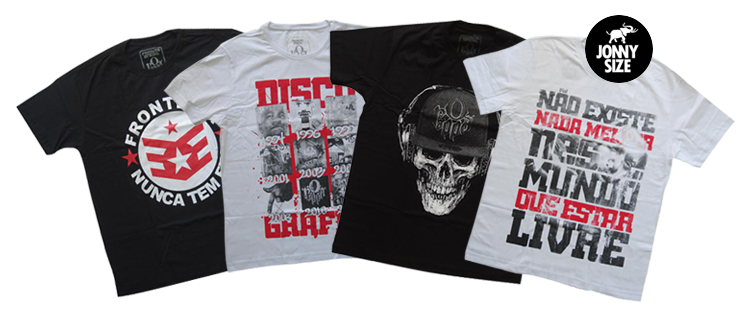
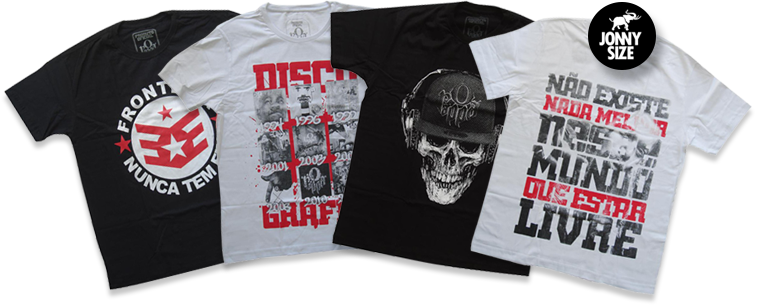
Ajustes nas imagens e backgrounds

diff --git a/style.css b/style.css
@@ -39,7 +39,7 @@ h1, h2, h3, h4 {
 	color: #000;
 }
 section {
-	padding-bottom: 25px;
+	padding-bottom: 55px;
 	position: relative;
 	z-index: 9;
 }
@@ -51,9 +51,11 @@ a.button {
 	text-transform: uppercase;
 	text-align: center;
 	line-height: 34px;
+	font-size: 26px;
 	
 	display: block;
 	width: 100%;
+	
 }
 br.nobr {
 	height: 0;
@@ -117,6 +119,9 @@ header {
 }
 
 /* CARROSSEL */
+.content-carousel {
+	padding-bottom: 0;
+}
 .carousel-xs-img {
 	width: 100%;
 }
@@ -164,9 +169,11 @@ header {
 	line-height: 52px;
 }
 .content-agenda .data-show-header,
-.content-agenda .data-show {
+.content-agenda .data-show,
+.content-agenda .data-show .button{
 	line-height: 34px;
 	text-transform: uppercase;
+	font-size: 14px;
 	
 }
 .content-agenda .data-show {
@@ -187,7 +194,7 @@ header {
 	background-color: #FFF;
 	border: 1px solid #ebebeb;
 	padding: 8px 16px;
-	font-size: 13px;
+	font-size: 16px;
 }
 .content-agenda .more-itens {
 	text-align: right;
@@ -202,6 +209,12 @@ header {
 @media (min-width: 768px) {
 	.content-agenda h4 .tag {
 		display: inline;
+	}
+	
+	.content-agenda .data-show-header,
+	.content-agenda .data-show,
+	.content-agenda .data-show .button{
+		font-size: 18px;
 	}
 }
 
@@ -256,6 +269,7 @@ header {
 /* APP MOBILE */
 .content-aplicativomobile .excerpt {
 	margin-top: 15px;
+	font-size: 18px;
 }
 .content-aplicativomobile .download-link {
 	display: block;
@@ -330,7 +344,7 @@ header {
 .content-links .item-link-title {
 	text-align: center;
 	text-transform: uppercase;
-	font-size: 25px;
+	font-size: 18px;
 	
 	margin-bottom: 40px;
 	

diff --git a/css/background.css b/css/background.css
@@ -5,9 +5,10 @@
 }
 @media (min-width: 768px) {
 	.content-redessociais {
-		background: url('../images/redes-sociais/background-bottom.png'), url('../images/redes-sociais/textura.png') ;
+		background: url('../images/redes-sociais/background-bottom.jpg'), url('../images/redes-sociais/textura.jpg') ;
 		background-repeat: repeat-x, repeat;
-		background-position:bottom left, top left;
+		background-position: bottom left, top left;
+		background-size: contain, auto;
 	}
 	.content-redessociais .container {
 		background-image: url('../images/redes-sociais/foto-bg-semitransparente.png');
@@ -34,7 +35,7 @@
 }
 
 .content-loja {
-	background-image: url('../images/loja/background.png');
+	background-image: url('../images/loja/background.jpg');
 }
 .content-loja .container:first-child {
 	background-image: url('../images/loja/camisas-xs.png');

diff --git a/css/navbar-default.css b/css/navbar-default.css
@@ -17,6 +17,7 @@
 	color: #FFF;
 	text-transform: uppercase;
 	text-align: center;
+	font-size: 16px;
 }
 
 .navbar-default .navbar-nav > .active > a, 
@@ -30,5 +31,14 @@
 @media (min-width: 768px) {
 	.navbar-default .navbar-nav {
 		float: right;
+	}
+	.navbar-default .navbar-nav > li > a {
+		padding: 15px 11px;
+	}
+}
+
+@media (min-width: 992px) {
+	.navbar-default .navbar-nav > li > a {
+		padding: 15px;
 	}
 }

diff --git a/content-carousel.php b/content-carousel.php
@@ -1,4 +1,5 @@
 <?php
+$imagemTelasPequenas = get_field('imagem_telas_pequenas');
 $args = array('post_type' => 'carrossel-item');
 $the_query = new WP_Query($args);
 $totalCarrosselItem = $the_query->post_count;
@@ -48,6 +49,6 @@ endwhile;
 		</a>
 	</div>
 	<div class="visible-xs-block">
-		<img src="<?php the_field('imagem_telas_pequenas') ?>" class="carousel-xs-img" />
+		<img src="<?php echo $imagemTelasPequenas ?>" class="carousel-xs-img" />
 	</div>
 </section>

diff --git a/content-nacao.php b/content-nacao.php
@@ -18,7 +18,7 @@
 			<div class="col-xs-10 col-xs-offset-1 excerpt">
 				<?php the_excerpt() ?>
 			</div>
-			<div class="col-xs-6 col-xs-offset-3 col-sm-4 col-sm-offset-4">
+			<div class="col-xs-6 col-xs-offset-3 col-sm-4 col-sm-offset-4 col-lg-2 col-lg-offset-5">
 				<a href="<?php the_field('url_nacao') ?>" target="_blank" class="button">Acessar</a>
 			</div>
 		</div>

diff --git a/content-loja.php b/content-loja.php
@@ -14,7 +14,7 @@
 			<div class="col-xs-12 excerpt">
 				<?php the_content() ?>
 			</div>
-			<div class="col-xs-6 col-xs-offset-3 col-sm-4 col-sm-offset-4">
+			<div class="col-xs-6 col-xs-offset-3 col-sm-4 col-sm-offset-4 col-lg-2 col-lg-offset-5">
 				<a href="<?php the_field('url_loja') ?>" target="_blank" class="button">Acessar</a>
 			</div>
 		</div>

diff --git a/content-links.php b/content-links.php
@@ -11,7 +11,6 @@
 			</div>
 		</div>
 		<div class="row">
-			
 <?php
 if( have_rows('lista_links') ):
 	while ( have_rows('lista_links') ) : 
